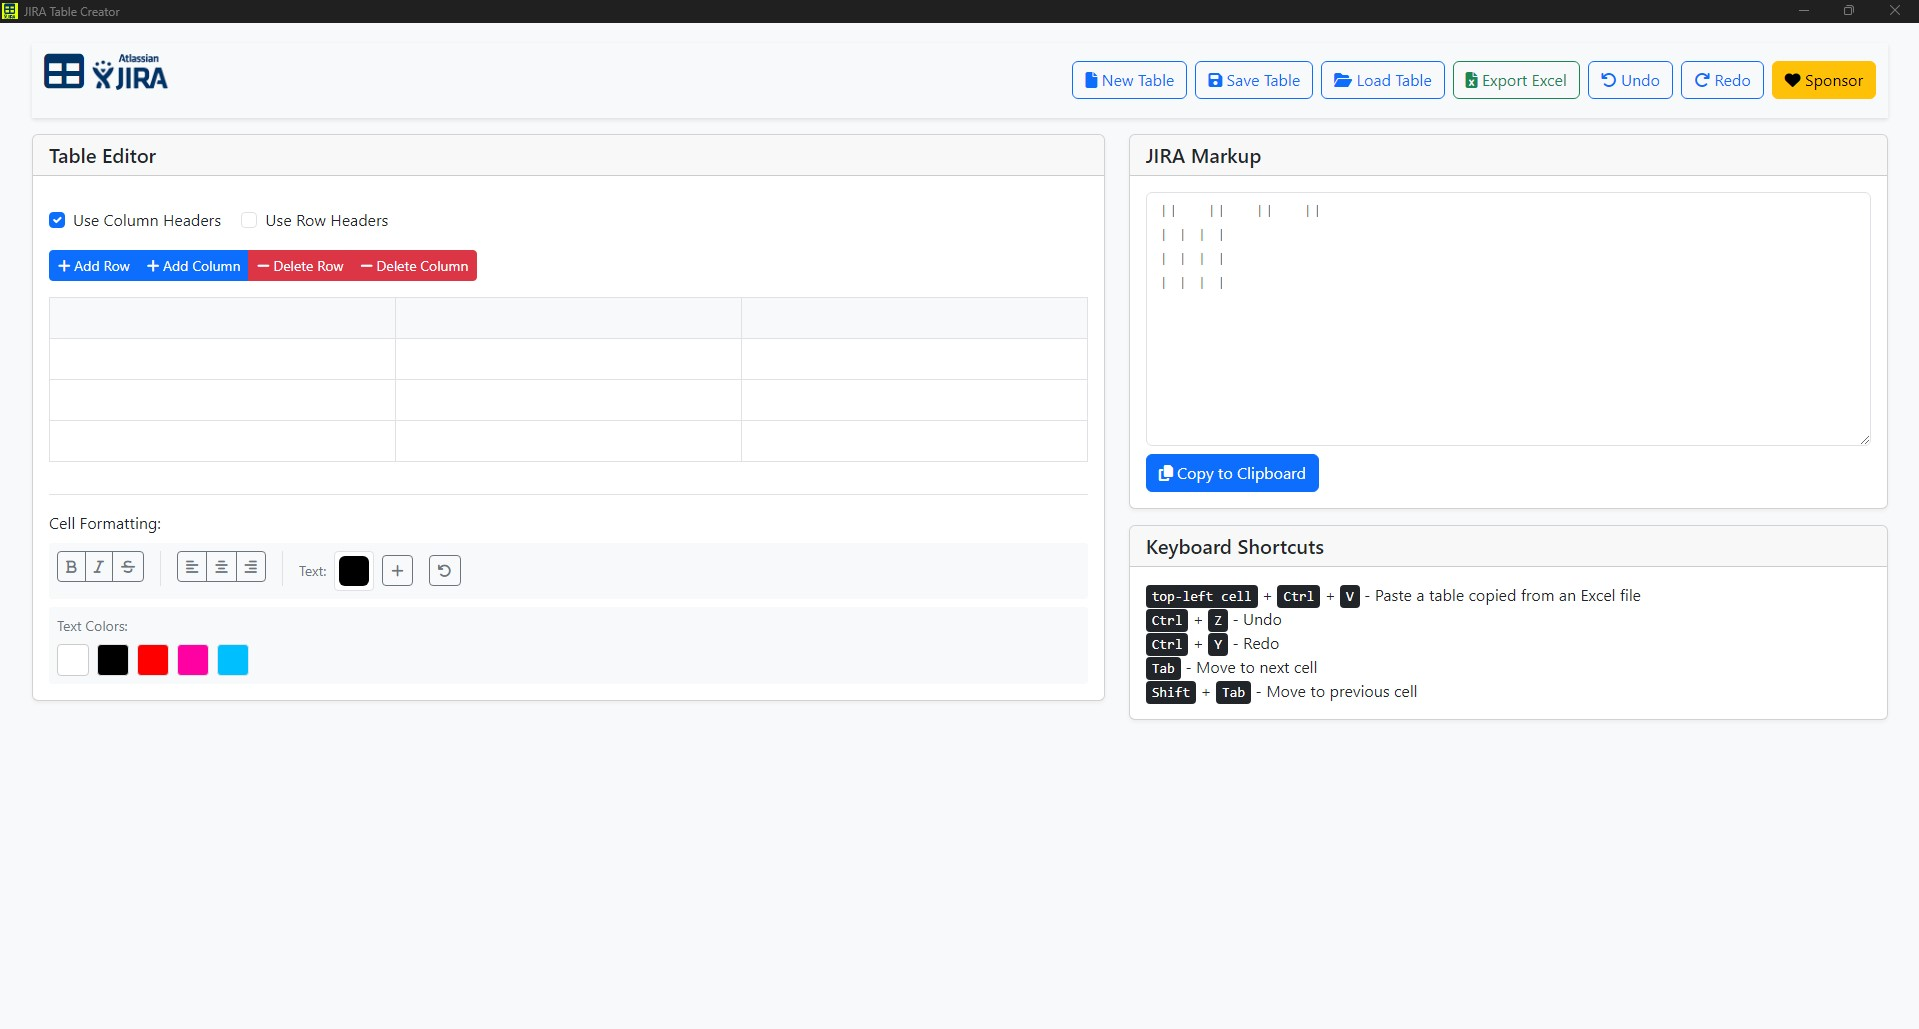
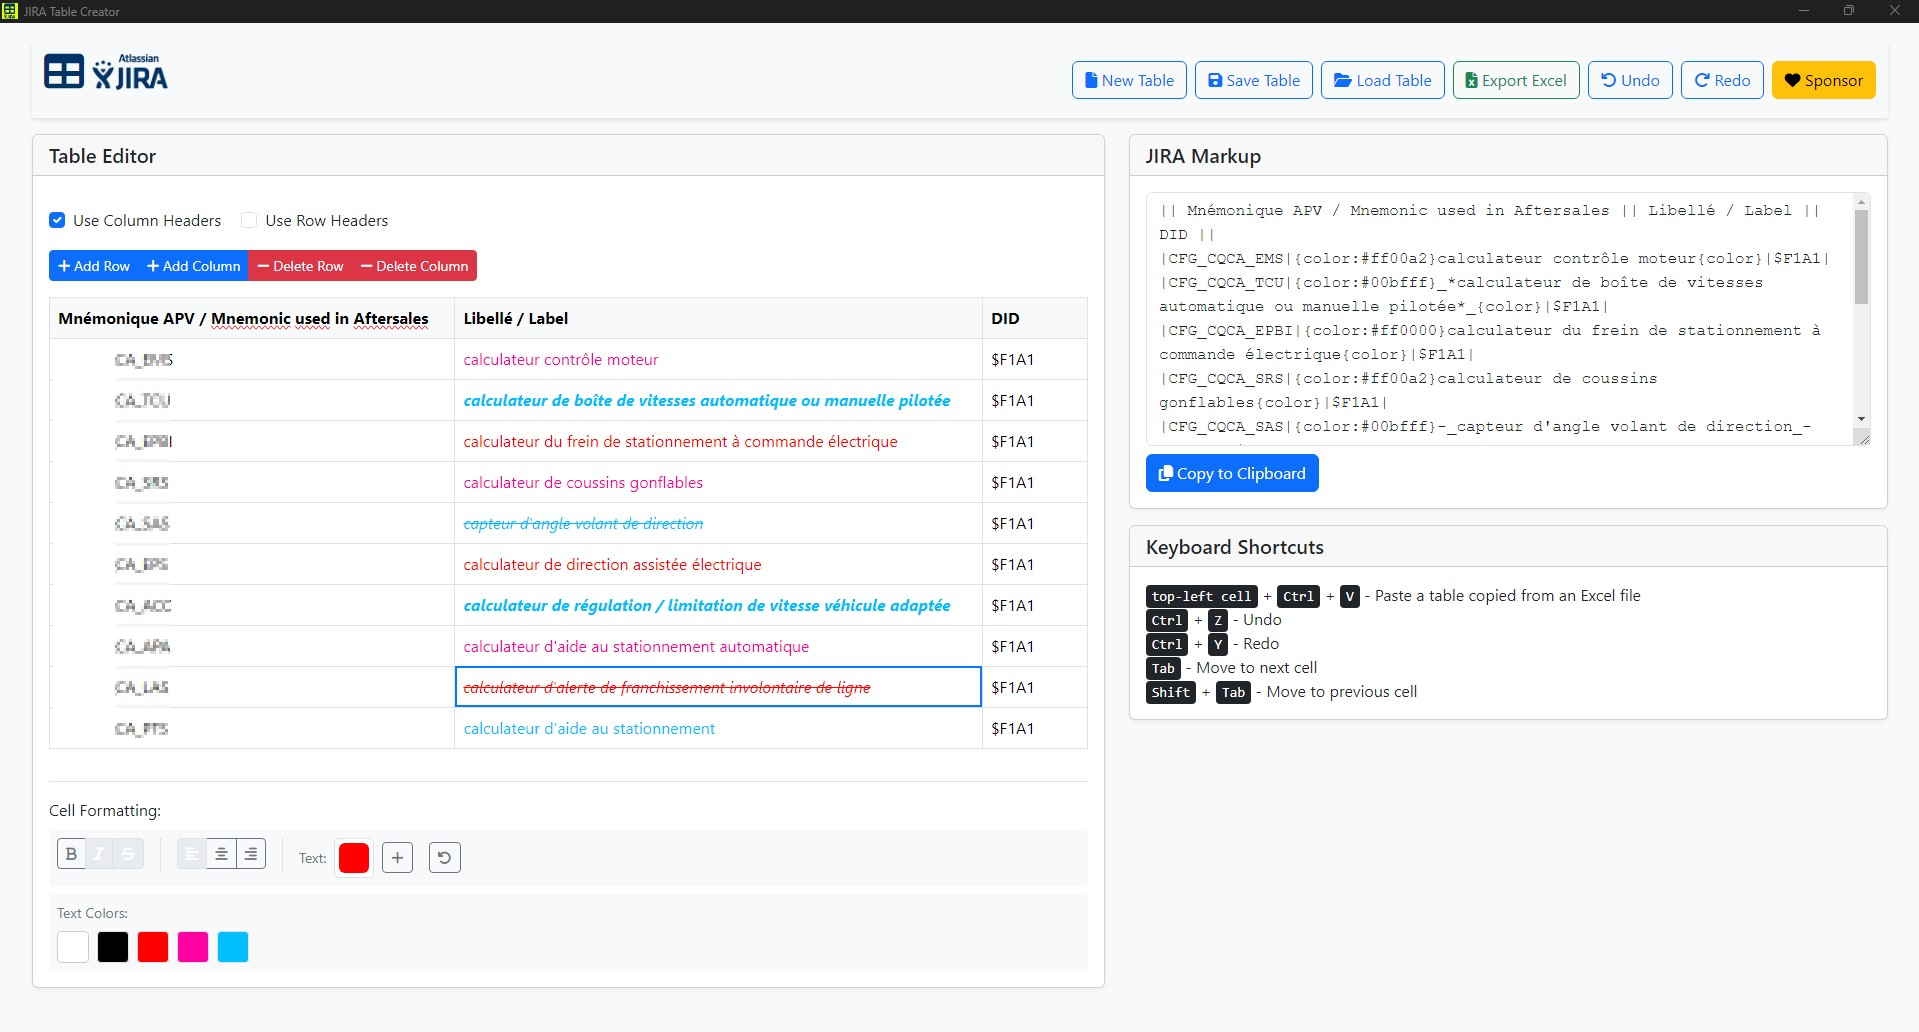
ok

diff --git a/data.js b/data.js
@@ -97,14 +97,14 @@ const DATA = {
       name: "COMREPA Extension",
       icon: "assets/Projects/COMREPA-Extension/icon.png",
       tech: ["JavaScript", "HTML", "CSS"],
-      description: "Innovative Chrome/Edge extension to optimize navigation and access to key information in a Stellantis project context.<br><br><strong>HUDSON_FIXER</strong>: Resolves navigation issues on the Stellantis Hudson site.<br><strong>FLOWCHART_DOC</strong>: User guide for flowcharts in D2C.<br><strong>DOCINFO_DIRECTORY</strong>: Organizes RCDs & CRAs.<br><strong>JIRA_EXT & SHAREPOINT_EXT</strong>: Simplified access to project data.",
-      screenshots: Array.from({ length: 5 }, (_, i) => `assets/Projects/COMREPA-Extension/screenshot-${i + 1}.png`),
+      description: "Innovative Chrome/Edge extension to optimize navigation and access to key informations.",
+      screenshots: Array.from({ length: 2 }, (_, i) => `assets/Projects/COMREPA-Extension/screenshot-${i + 1}.png`),
     },
     {
       name: "FL-Maker",
       icon: "assets/Projects/FL-Maker/icon.png",
       tech: ["Python", "flet"],
-      description: "Automated <strong>Delivery Note (Fiche de Livraison)</strong> generator in D2Center. Automatically monitors projects and files, providing a detailed report of each addition, deletion, or modification with the file name, modification type, revision number, and description.",
+      description: "Automated <strong>Delivery Note (Fiche de Livraison)</strong> generator in Eclipse-D2Center. Automatically monitors projects and files, providing a detailed report of each addition, deletion, or modification with the file name, modification type, revision number, and description.",
       screenshots: Array.from({ length: 6 }, (_, i) => `assets/Projects/FL-Maker/screenshot-${i + 1}.png`),
     },
     {